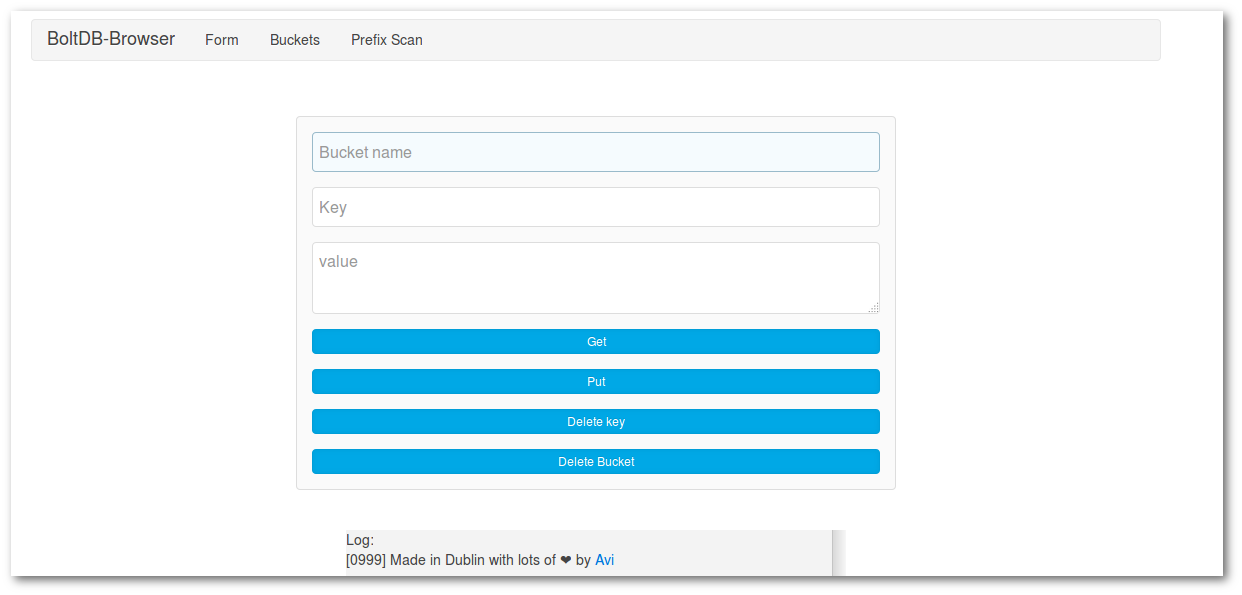
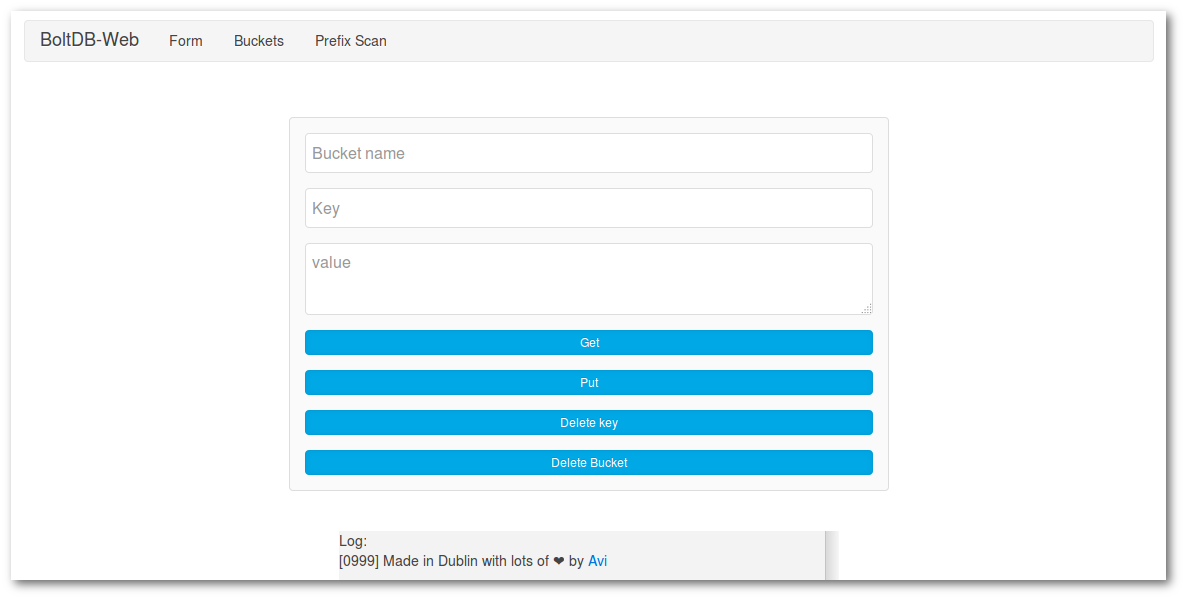
updated title

diff --git a/web/html/layout.html b/web/html/layout.html
@@ -1,7 +1,7 @@
 <!DOCTYPE html>
 <html>
     <head>
-        <title>BoltDB-Browser</title>
+        <title>BoltDB-Web</title>
 <link rel="stylesheet" href="/web/css/uikit.min.css" />
 <link rel="stylesheet" href="/web/css/uikit.almost-flat.min.css" />
 <script src="/web/js//jquery-2.2.3.min.js"></script>
@@ -14,7 +14,7 @@
 
         <div class="uk-container uk-container-center uk-margin-top uk-margin-small-bottom">
             <nav class="uk-navbar uk-margin-large-bottom">
-                <a class="uk-navbar-brand uk-hidden-small" href="/">BoltDB-Browser</a>
+                <a class="uk-navbar-brand uk-hidden-small" href="/">BoltDB-Web</a>
                 <ul class="uk-navbar-nav uk-hidden-small">
                     <li>
                         <a href="/">Form</a>
